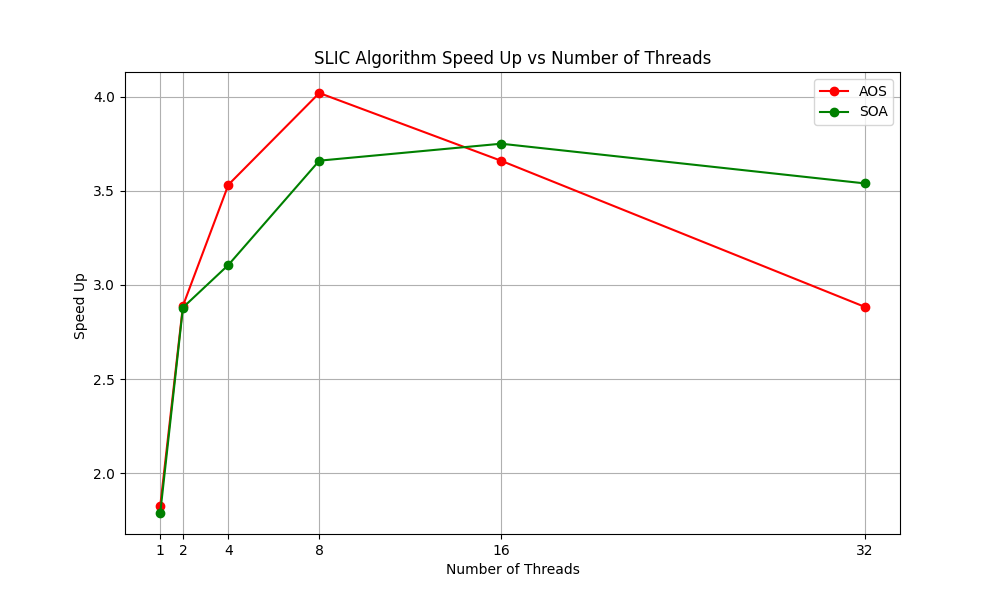
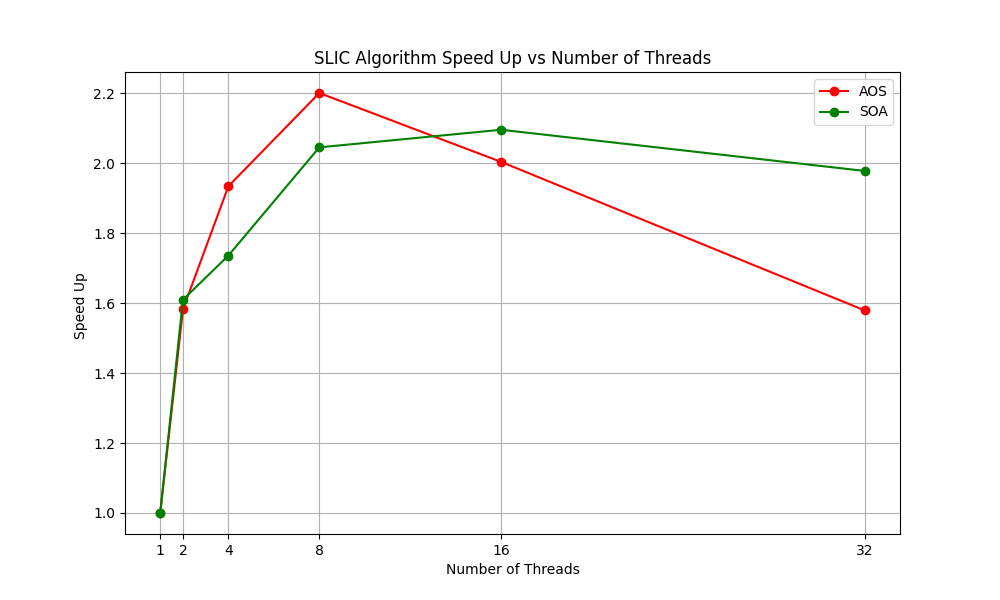
Uncommented some test functions.

diff --git a/scripts/graphs_generator.py b/scripts/graphs_generator.py
@@ -41,17 +41,19 @@ def plot_complexity(df):
     plt.show()
 
 
-def plot_graphics_threads(dfs,sequential_time):
+def plot_graphics_threads(dfs):
     time_array_soa = []
     time_array_aos = []
     num_thread = []
+    base_time_aos = next(item['Avg_Time_ms'] for item in dfs[0] if item['Threads'] == 1)
+    base_time_soa = next(item['Avg_Time_ms'] for item in dfs[1] if item['Threads'] == 1)
     init = False
     for elem in dfs[0]:
-        time_array_aos.append(sequential_time['AoS_Mean_ms']/elem['Avg_Time_ms'])
+        time_array_aos.append(base_time_aos/elem['Avg_Time_ms'])
         num_thread.append(elem['Threads'])
 
     for elem in dfs[1]:
-        time_array_soa.append(sequential_time['SoA_Mean_ms']/elem['Avg_Time_ms'])
+        time_array_soa.append(base_time_soa/elem['Avg_Time_ms'])
 
     plt.figure(figsize=(10,  6))
     plt.title('SLIC Algorithm Speed Up vs Number of Threads')
@@ -357,7 +359,7 @@ if __name__ == "__main__":
 
 
     # Generate the thread plot
-    plot_graphics_threads([df_thread_aos.to_dict(orient='records'), df_thread_soa.to_dict(orient='records')],df_sequential[df_sequential['Resolution']=='640x480'].iloc[0])
+    plot_graphics_threads([df_thread_aos.to_dict(orient='records'), df_thread_soa.to_dict(orient='records')])
 
     #Creo dentro la cartella generated i sottodirectory per i diversi tipi di scheduling
     os.mkdir(dir_generated + "/notiled_reduction") if not os.path.exists(dir_generated + "/notiled_reduction") else None
